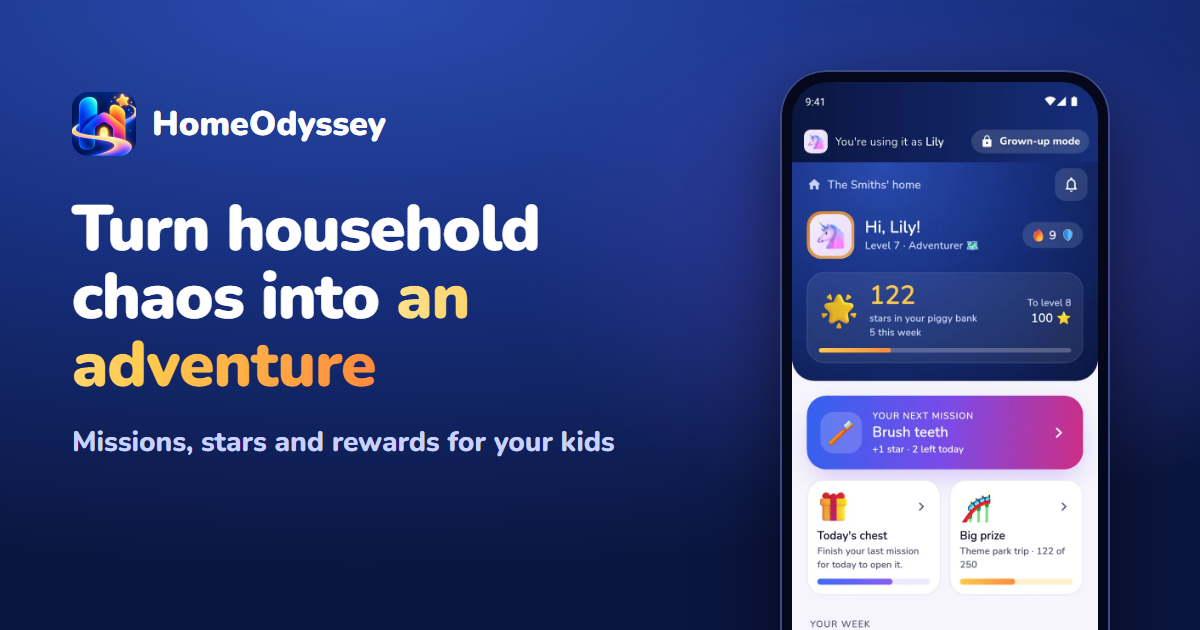
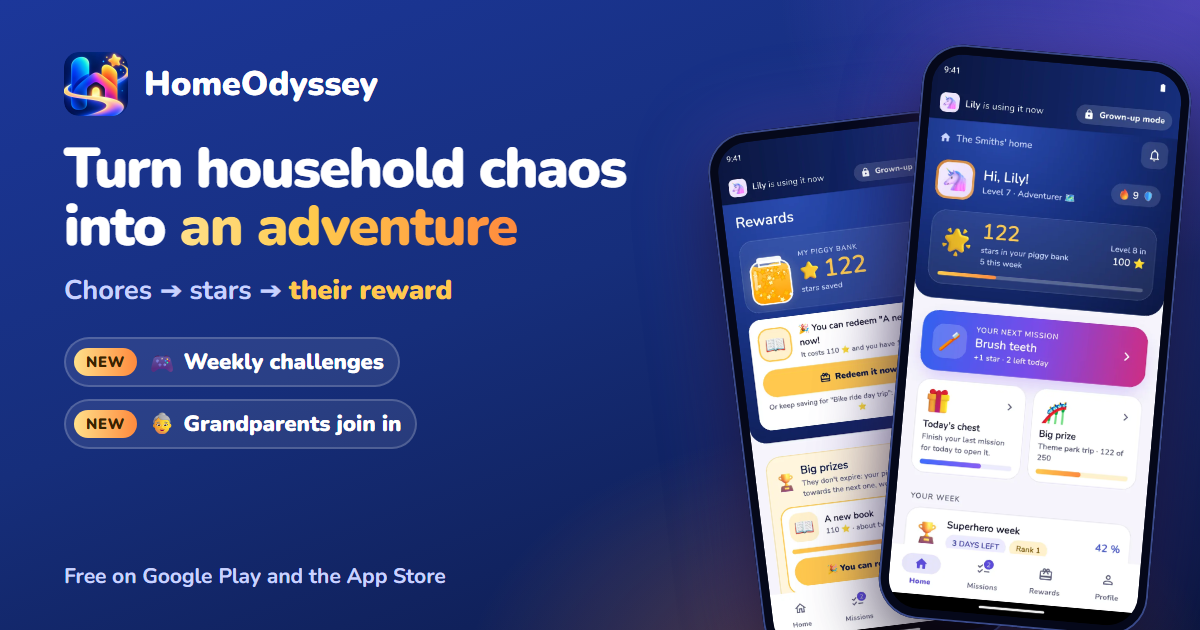
Web: imagen para compartir (OG) con la 1.1, ES/EN

diff --git a/index.html b/index.html
@@ -15,16 +15,16 @@
   <meta property="og:title" content="HomeOdyssey · Convierte la odisea de casa en una aventura">
   <meta property="og:description" content="Misiones de casa, estrellas y recompensas para tus peques. Y en papel, si no quieres pantallas. Descárgala gratis.">
   <meta property="og:url" content="https://homeodyssey.app/">
-  <meta property="og:image" content="https://homeodyssey.app/assets/img/og-es.png">
+  <meta property="og:image" content="https://homeodyssey.app/assets/img/og-es.png?v=1.1">
   <meta property="og:image:width" content="1200">
   <meta property="og:image:height" content="630">
-  <meta property="og:image:alt" content="HomeOdyssey: convierte la odisea de casa en una aventura. Pantalla de inicio de un peque con su hucha de estrellas.">
+  <meta property="og:image:alt" content="HomeOdyssey: convierte la odisea de casa en una aventura. Tareas de casa, estrellas y su recompensa; nuevo: desafíos de la semana y abuelos en la aventura.">
   <meta property="og:locale" content="es_ES">
   <meta property="og:locale:alternate" content="en_GB">
   <meta name="twitter:card" content="summary_large_image">
   <meta name="twitter:title" content="HomeOdyssey · Convierte la odisea de casa en una aventura">
   <meta name="twitter:description" content="Misiones de casa, estrellas y recompensas para tus peques. Y en papel, si no quieres pantallas. Descárgala gratis.">
-  <meta name="twitter:image" content="https://homeodyssey.app/assets/img/og-es.png">
+  <meta name="twitter:image" content="https://homeodyssey.app/assets/img/og-es.png?v=1.1">
   <meta name="theme-color" content="#0B1640">
   <link rel="icon" href="/favicon.png" type="image/png">
   <link rel="apple-touch-icon" href="/assets/img/apple-touch-icon.png">
@@ -34,7 +34,7 @@
   <link rel="stylesheet" href="/assets/estilo.css">
   <link rel="preload" as="image" href="/assets/img/es/p04-inicio.webp" fetchpriority="high">
   <script type="application/ld+json">
-  {"@context":"https://schema.org","@type":"MobileApplication","name":"HomeOdyssey","alternateName":"HomeOdyssey: tareas en familia","description":"App para familias: los peques cumplen misiones de casa, ganan estrellas y las cambian por recompensas que eligen los padres. Con desafíos de mates, lógica y memoria, y hoja de la semana para imprimir.","operatingSystem":["Android","iOS"],"applicationCategory":"LifestyleApplication","inLanguage":["es","en","pt","it","fr","de"],"offers":{"@type":"Offer","price":"0","priceCurrency":"EUR"},"url":"https://homeodyssey.app/","image":"https://homeodyssey.app/assets/img/og-es.png","screenshot":"https://homeodyssey.app/assets/img/es/p04-inicio.webp","author":{"@type":"Organization","name":"HomeOdyssey","url":"https://homeodyssey.app/"}}
+  {"@context":"https://schema.org","@type":"MobileApplication","name":"HomeOdyssey","alternateName":"HomeOdyssey: tareas en familia","description":"App para familias: los peques cumplen misiones de casa, ganan estrellas y las cambian por recompensas que eligen los padres. Con desafíos de mates, lógica y memoria, y hoja de la semana para imprimir.","operatingSystem":["Android","iOS"],"applicationCategory":"LifestyleApplication","inLanguage":["es","en","pt","it","fr","de"],"offers":{"@type":"Offer","price":"0","priceCurrency":"EUR"},"url":"https://homeodyssey.app/","image":"https://homeodyssey.app/assets/img/og-es.png?v=1.1","screenshot":"https://homeodyssey.app/assets/img/es/p04-inicio.webp","author":{"@type":"Organization","name":"HomeOdyssey","url":"https://homeodyssey.app/"}}
   </script>
   <script type="application/ld+json">
   {"@context":"https://schema.org","@type":"FAQPage","mainEntity":[

diff --git a/en/index.html b/en/index.html
@@ -14,16 +14,16 @@
   <meta property="og:title" content="HomeOdyssey · Turn household chaos into an adventure">
   <meta property="og:description" content="Household missions, stars and rewards for your kids. And on paper, if you'd rather skip screens. Free to download.">
   <meta property="og:url" content="https://homeodyssey.app/en/">
-  <meta property="og:image" content="https://homeodyssey.app/assets/img/og-en.png">
+  <meta property="og:image" content="https://homeodyssey.app/assets/img/og-en.png?v=1.1">
   <meta property="og:image:width" content="1200">
   <meta property="og:image:height" content="630">
-  <meta property="og:image:alt" content="HomeOdyssey: turn household chaos into an adventure. A kid's home screen with their star piggy bank.">
+  <meta property="og:image:alt" content="HomeOdyssey: turn household chaos into an adventure. Chores, stars and their reward; new: weekly challenges and grandparents join in.">
   <meta property="og:locale" content="en_GB">
   <meta property="og:locale:alternate" content="es_ES">
   <meta name="twitter:card" content="summary_large_image">
   <meta name="twitter:title" content="HomeOdyssey · Turn household chaos into an adventure">
   <meta name="twitter:description" content="Household missions, stars and rewards for your kids. And on paper, if you'd rather skip screens. Free to download.">
-  <meta name="twitter:image" content="https://homeodyssey.app/assets/img/og-en.png">
+  <meta name="twitter:image" content="https://homeodyssey.app/assets/img/og-en.png?v=1.1">
   <meta name="theme-color" content="#0B1640">
   <link rel="icon" href="/favicon.png" type="image/png">
   <link rel="apple-touch-icon" href="/assets/img/apple-touch-icon.png">
@@ -33,7 +33,7 @@
   <link rel="stylesheet" href="/assets/estilo.css">
   <link rel="preload" as="image" href="/assets/img/en/p04-inicio.webp" fetchpriority="high">
   <script type="application/ld+json">
-  {"@context":"https://schema.org","@type":"MobileApplication","name":"HomeOdyssey","alternateName":"HomeOdyssey: Family Chores","description":"A family app: kids complete household missions, earn stars and swap them for rewards parents choose. With maths, logic and memory challenges, and a printable weekly sheet.","operatingSystem":["Android","iOS"],"applicationCategory":"LifestyleApplication","inLanguage":["es","en","pt","it","fr","de"],"offers":{"@type":"Offer","price":"0","priceCurrency":"EUR"},"url":"https://homeodyssey.app/en/","image":"https://homeodyssey.app/assets/img/og-en.png","screenshot":"https://homeodyssey.app/assets/img/en/p04-inicio.webp","author":{"@type":"Organization","name":"HomeOdyssey","url":"https://homeodyssey.app/"}}
+  {"@context":"https://schema.org","@type":"MobileApplication","name":"HomeOdyssey","alternateName":"HomeOdyssey: Family Chores","description":"A family app: kids complete household missions, earn stars and swap them for rewards parents choose. With maths, logic and memory challenges, and a printable weekly sheet.","operatingSystem":["Android","iOS"],"applicationCategory":"LifestyleApplication","inLanguage":["es","en","pt","it","fr","de"],"offers":{"@type":"Offer","price":"0","priceCurrency":"EUR"},"url":"https://homeodyssey.app/en/","image":"https://homeodyssey.app/assets/img/og-en.png?v=1.1","screenshot":"https://homeodyssey.app/assets/img/en/p04-inicio.webp","author":{"@type":"Organization","name":"HomeOdyssey","url":"https://homeodyssey.app/"}}
   </script>
   <script type="application/ld+json">
   {"@context":"https://schema.org","@type":"FAQPage","mainEntity":[
